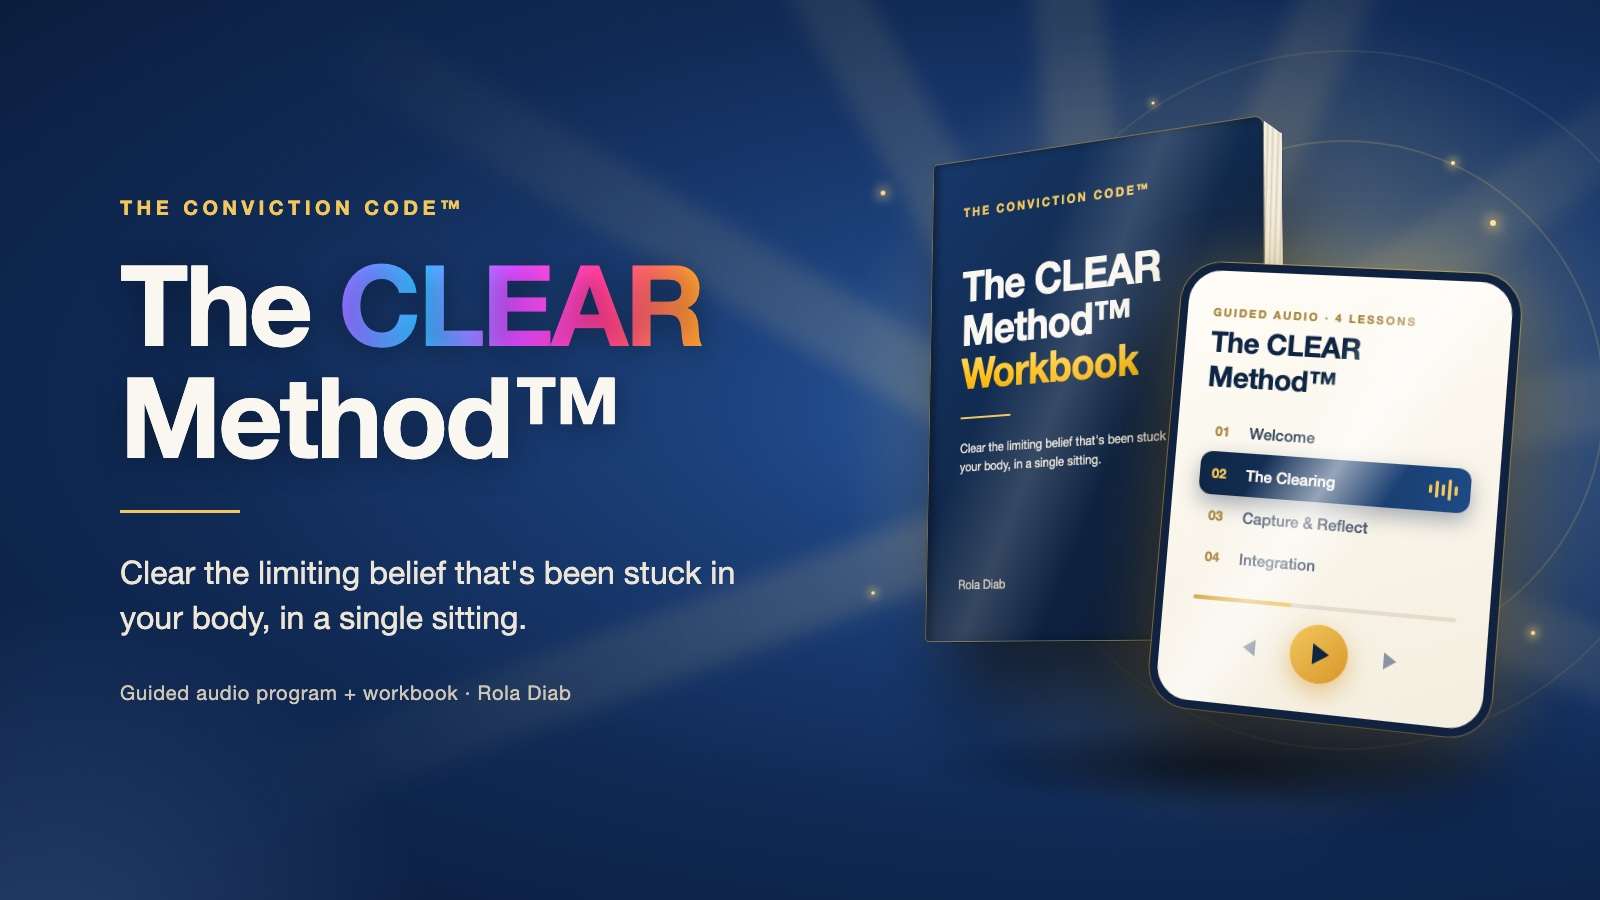
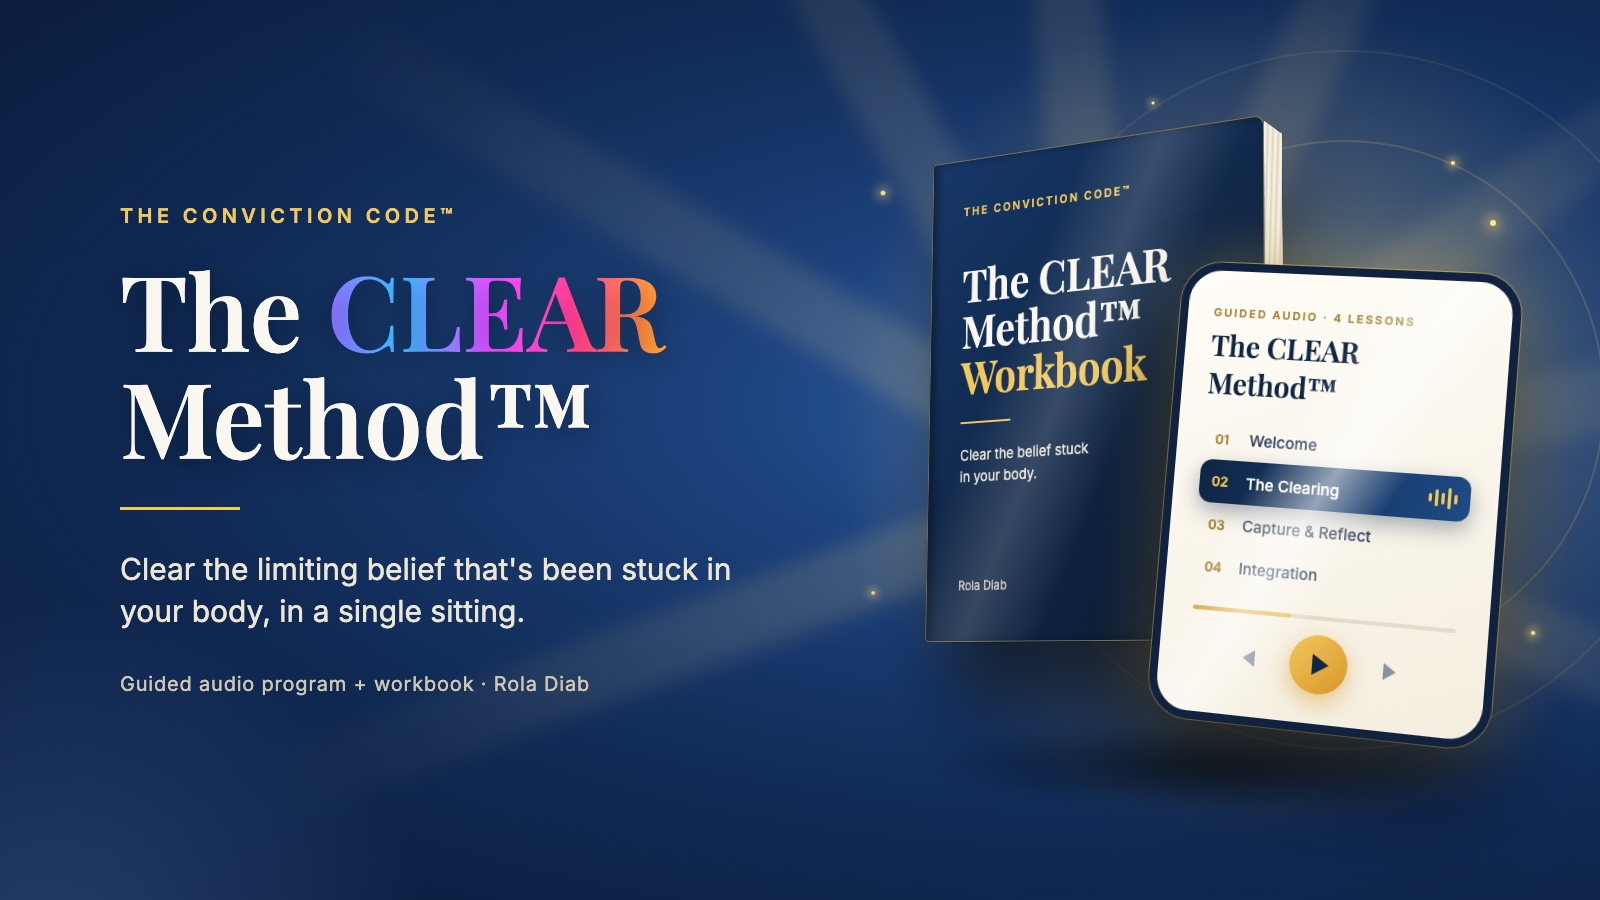
CLEAR cover: back to serif title, keep Manifesting gradient

diff --git a/products/index.html b/products/index.html
@@ -65,7 +65,7 @@
         </div>
       </article>
       <article class="product-card">
-        <img src="/products/clear-method.jpg?v=2" alt="The CLEAR Method workbook and guided audio: clear the limiting belief stuck in your body, in a single sitting" width="1600" height="900">
+        <img src="/products/clear-method.jpg?v=3" alt="The CLEAR Method workbook and guided audio: clear the limiting belief stuck in your body, in a single sitting" width="1600" height="900">
         <div class="product-body">
           <p class="num">Guided audio + workbook &nbsp;·&nbsp; one sitting</p>
           <h3>The CLEAR Method&trade;</h3>
